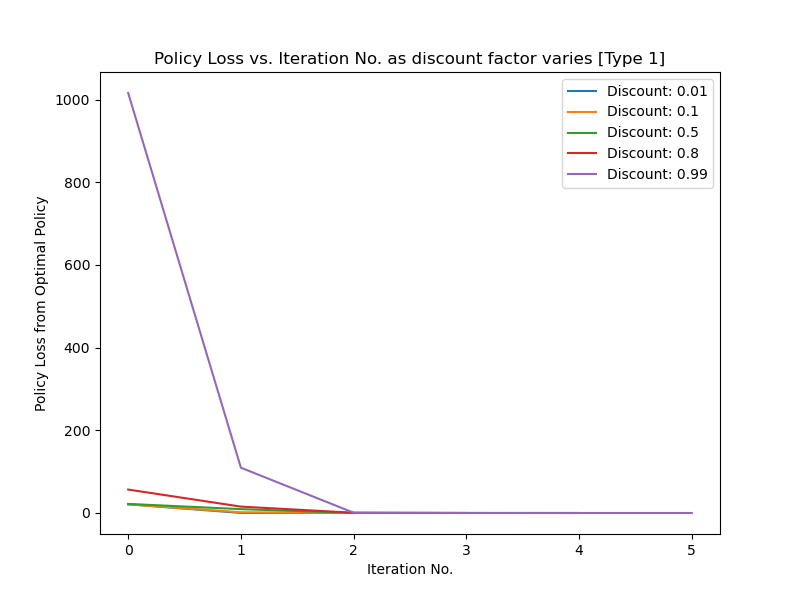
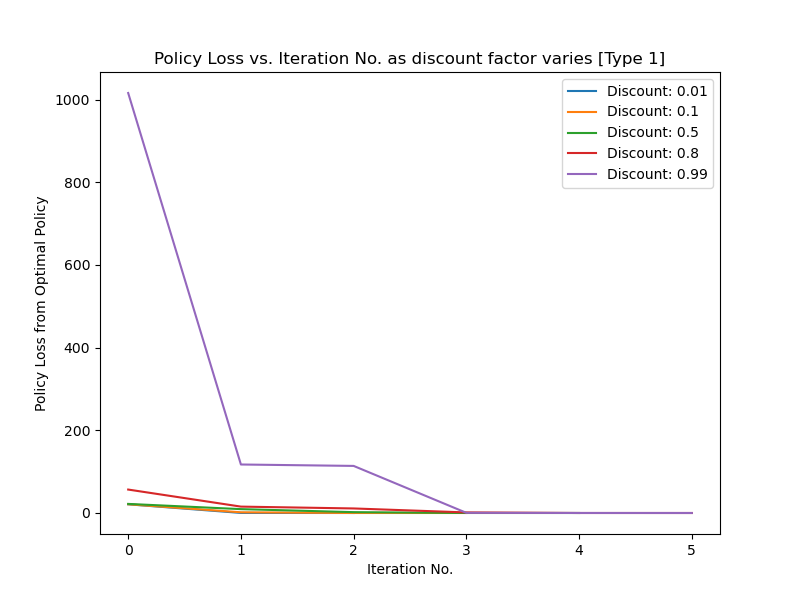
measured time for part A 3b

diff --git a/main.py b/main.py
@@ -465,10 +465,9 @@ class TaxiDomain:
 def partA_2a():
     grid = Grid(1)
     tdp = TaxiDomain(grid)
-    epsilon = 0.5
+    epsilon = 0.01
     answer = tdp.value_iteration(0.9, epsilon)
-    #print (answer[0])
-    print ("Epsilon chosen: "+str(epsilon)+", total number of iterations: "+str(answer[1]))
+    print("Epsilon chosen: "+str(epsilon)+", Total number of iterations: "+str(answer[1]))
 
 def partA_2b():
     grid = Grid(1)
@@ -565,14 +564,14 @@ if __name__ == "__main__":
     #tdp.print_state()
     #tdp.state, reward = tdp.take_action(tdp.state, "E")
     #tdp.print_state()
-    #partA_2a()
+    partA_2a()
     #partA_2b()
     #partA_2c()
-    s1 = time.process_time()
-    partA_3b(1)
-    t1 = time.process_time() - s1
-    s2 = time.process_time()
-    partA_3b(2)
-    t2 = time.process_time() - s2
-    print(f"Time taken in Part A 3(b) using iterative policy evaluation = {t1} s")
-    print(f"Time taken in Part A 3(b) using linear algebra policy evaluation = {t2} s")
+    # s1 = time.process_time()
+    # partA_3b(1)
+    # t1 = time.process_time() - s1
+    # s2 = time.process_time()
+    # partA_3b(2)
+    # t2 = time.process_time() - s2
+    # print(f"Time taken in Part A 3(b) using iterative policy evaluation = {t1} s")
+    # print(f"Time taken in Part A 3(b) using linear algebra policy evaluation = {t2} s")
